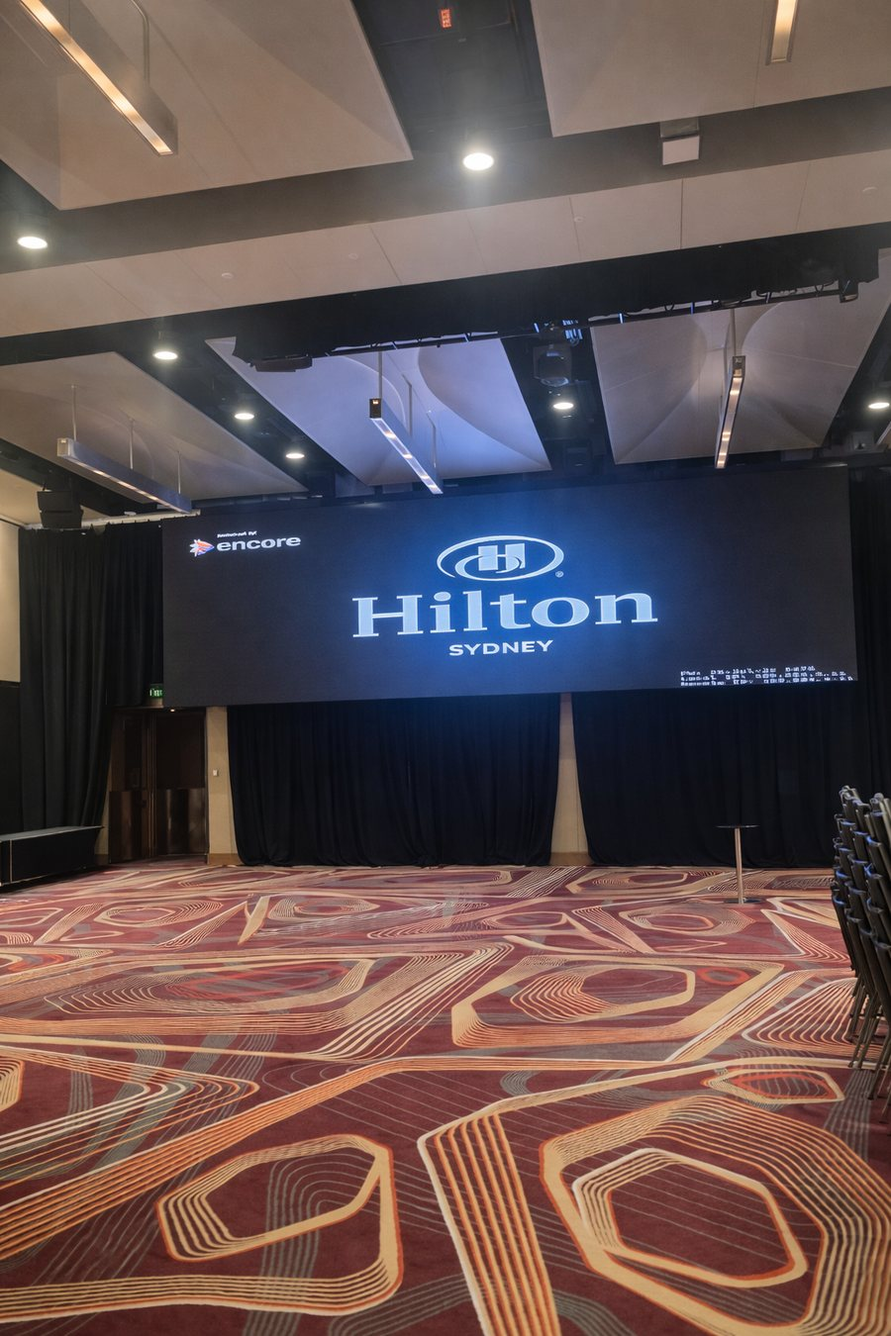
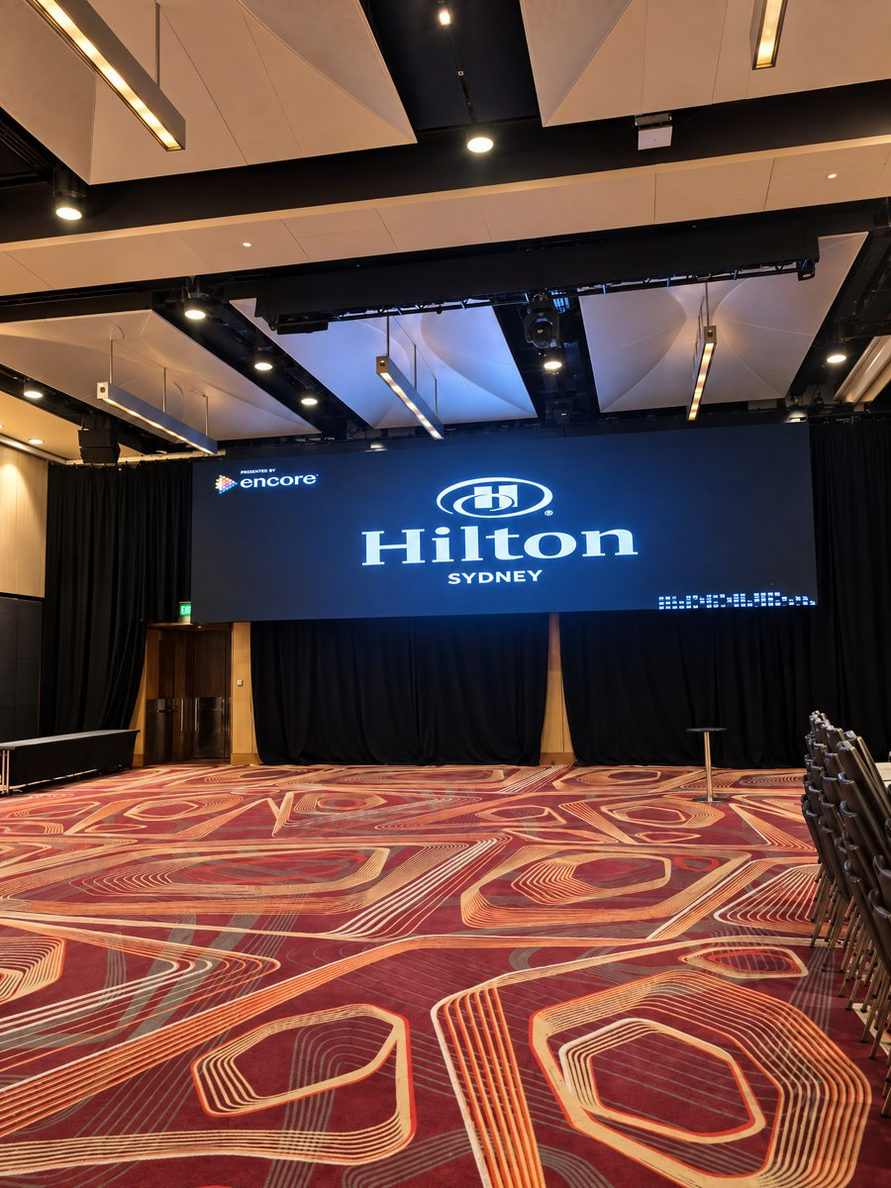
Hilton Sydney: swap Grand Ballroom photo

diff --git a/conference-venue-finding.html b/conference-venue-finding.html
@@ -115,7 +115,7 @@
 <section class="s-white pad" aria-label="A few of the venues we work with.">
   <div class="wrap"><div class="section-head"><span class="eyebrow">The spaces</span><h2 class="h2">A few of the venues we work with.</h2>
     <p class="lead" style="max-width:62ch">The ones marked Inspected by CVBS we have walked through ourselves, and each of those links to what we found in the room. We source from twenty-person board meetings to 800-delegate congresses, in every Australian capital, in wine country, on the islands and overseas, and we work right across the market rather than for any one hotel group. <a class="link-arrow" href="venue-visits/">See the venues we have walked through <svg viewBox="0 0 24 24" width="20" height="20" fill="none" stroke="currentColor" stroke-width="1.7" stroke-linecap="round" stroke-linejoin="round" aria-hidden="true"><path d="M5 12h14M13 6l6 6-6 6"/></svg></a></p></div></div>
-  <div class="venue-marquee reveal"><div class="venue-track"><figure class="vshow"><img src="assets/img/venues/icc-sydney.jpg" alt="ICC Sydney" loading="lazy" onerror="this.closest(&#39;.vshow&#39;).remove()" width="823" height="600"><figcaption>ICC Sydney</figcaption></figure><a class="vshow vshow--seen" href="venue-visits/royal-randwick/"><img src="assets/img/venue-visits/royal-randwick/0-w900.jpg" alt="Royal Randwick Racecourse" loading="lazy" decoding="async" width="900" height="1200"><figcaption>Royal Randwick Racecourse</figcaption></a><figure class="vshow"><img src="assets/img/venues/the-star-event-centre.jpg" alt="Sydney Event Centre" loading="lazy" onerror="this.closest(&#39;.vshow&#39;).remove()" width="1200" height="630"><figcaption>Sydney Event Centre</figcaption></figure><a class="vshow vshow--seen" href="venue-visits/crown-towers-sydney/"><img src="assets/img/venue-visits/crown-towers-sydney/5-w900.jpg" alt="Crown Towers Sydney" loading="lazy" decoding="async" width="900" height="1200"><figcaption>Crown Towers Sydney</figcaption></a><figure class="vshow"><img src="assets/img/venues/crown-sydney.jpg" alt="Crown Sydney" loading="lazy" onerror="this.closest(&#39;.vshow&#39;).remove()" width="1200" height="800"><figcaption>Crown Sydney</figcaption></figure><a class="vshow vshow--seen" href="venue-visits/sofitel-sydney-wentworth/"><img src="assets/img/venue-visits/sofitel-sydney/0-w900.jpg" alt="Sofitel Sydney Wentworth" loading="lazy" decoding="async" width="900" height="1117"><figcaption>Sofitel Sydney Wentworth</figcaption></a><figure class="vshow"><img src="assets/img/venues/doltone-house.jpg" alt="Doltone House" loading="lazy" onerror="this.closest(&#39;.vshow&#39;).remove()" width="1800" height="1200"><figcaption>Doltone House</figcaption></figure><a class="vshow vshow--seen" href="venue-visits/hilton-sydney/"><img src="assets/img/venue-visits/hilton-sydney/3-w900.jpg" alt="Hilton Sydney" loading="lazy" decoding="async" width="900" height="1350"><figcaption>Hilton Sydney</figcaption></a><figure class="vshow"><img src="assets/img/venues/w-sydney.jpg" alt="W Sydney" loading="lazy" onerror="this.closest(&#39;.vshow&#39;).remove()" width="1920" height="771"><figcaption>W Sydney</figcaption></figure><a class="vshow vshow--seen" href="venue-visits/the-westin-brisbane/"><img src="assets/img/venue-visits/the-westin-brisbane/2-w900.jpg" alt="The Westin Brisbane" loading="lazy" decoding="async" width="900" height="1200"><figcaption>The Westin Brisbane</figcaption></a><figure class="vshow"><img src="assets/img/venues/sofitel-sydney-darling-harbour.jpg" alt="Sofitel Sydney Darling Harbour" loading="lazy" onerror="this.closest(&#39;.vshow&#39;).remove()" width="900" height="500"><figcaption>Sofitel Sydney Darling Harbour</figcaption></figure><a class="vshow vshow--seen" href="venue-visits/intercontinental-brisbane/"><img src="assets/img/venue-visits/intercontinental-brisbane/0-w900.jpg" alt="InterContinental Brisbane" loading="lazy" decoding="async" width="900" height="600"><figcaption>InterContinental Brisbane</figcaption></a><figure class="vshow"><img src="assets/img/venues/shangri-la-sydney.jpg" alt="Shangri-La Sydney" loading="lazy" onerror="this.closest(&#39;.vshow&#39;).remove()" width="259" height="194"><figcaption>Shangri-La Sydney</figcaption></figure><a class="vshow vshow--seen" href="venue-visits/the-star-gold-coast/"><img src="assets/img/venue-visits/the-star-gold-coast/0-w900.jpg" alt="The Star Gold Coast" loading="lazy" decoding="async" width="900" height="1200"><figcaption>The Star Gold Coast</figcaption></a><a class="vshow vshow--seen" href="venue-visits/qt-perth/"><img src="assets/img/venue-visits/qt-perth/1-w900.jpg" alt="QT Perth" loading="lazy" decoding="async" width="900" height="1350"><figcaption>QT Perth</figcaption></a><figure class="vshow" aria-hidden="true"><img src="assets/img/venues/icc-sydney.jpg" alt="ICC Sydney" loading="lazy" onerror="this.closest(&#39;.vshow&#39;).remove()" width="823" height="600"><figcaption>ICC Sydney</figcaption></figure><a class="vshow vshow--seen" href="venue-visits/royal-randwick/" aria-hidden="true" tabindex="-1"><img src="assets/img/venue-visits/royal-randwick/0-w900.jpg" alt="Royal Randwick Racecourse" loading="lazy" decoding="async" width="900" height="1200"><figcaption>Royal Randwick Racecourse</figcaption></a><figure class="vshow" aria-hidden="true"><img src="assets/img/venues/the-star-event-centre.jpg" alt="Sydney Event Centre" loading="lazy" onerror="this.closest(&#39;.vshow&#39;).remove()" width="1200" height="630"><figcaption>Sydney Event Centre</figcaption></figure><a class="vshow vshow--seen" href="venue-visits/crown-towers-sydney/" aria-hidden="true" tabindex="-1"><img src="assets/img/venue-visits/crown-towers-sydney/5-w900.jpg" alt="Crown Towers Sydney" loading="lazy" decoding="async" width="900" height="1200"><figcaption>Crown Towers Sydney</figcaption></a><figure class="vshow" aria-hidden="true"><img src="assets/img/venues/crown-sydney.jpg" alt="Crown Sydney" loading="lazy" onerror="this.closest(&#39;.vshow&#39;).remove()" width="1200" height="800"><figcaption>Crown Sydney</figcaption></figure><a class="vshow vshow--seen" href="venue-visits/sofitel-sydney-wentworth/" aria-hidden="true" tabindex="-1"><img src="assets/img/venue-visits/sofitel-sydney/0-w900.jpg" alt="Sofitel Sydney Wentworth" loading="lazy" decoding="async" width="900" height="1117"><figcaption>Sofitel Sydney Wentworth</figcaption></a><figure class="vshow" aria-hidden="true"><img src="assets/img/venues/doltone-house.jpg" alt="Doltone House" loading="lazy" onerror="this.closest(&#39;.vshow&#39;).remove()" width="1800" height="1200"><figcaption>Doltone House</figcaption></figure><a class="vshow vshow--seen" href="venue-visits/hilton-sydney/" aria-hidden="true" tabindex="-1"><img src="assets/img/venue-visits/hilton-sydney/3-w900.jpg" alt="Hilton Sydney" loading="lazy" decoding="async" width="900" height="1350"><figcaption>Hilton Sydney</figcaption></a><figure class="vshow" aria-hidden="true"><img src="assets/img/venues/w-sydney.jpg" alt="W Sydney" loading="lazy" onerror="this.closest(&#39;.vshow&#39;).remove()" width="1920" height="771"><figcaption>W Sydney</figcaption></figure><a class="vshow vshow--seen" href="venue-visits/the-westin-brisbane/" aria-hidden="true" tabindex="-1"><img src="assets/img/venue-visits/the-westin-brisbane/2-w900.jpg" alt="The Westin Brisbane" loading="lazy" decoding="async" width="900" height="1200"><figcaption>The Westin Brisbane</figcaption></a><figure class="vshow" aria-hidden="true"><img src="assets/img/venues/sofitel-sydney-darling-harbour.jpg" alt="Sofitel Sydney Darling Harbour" loading="lazy" onerror="this.closest(&#39;.vshow&#39;).remove()" width="900" height="500"><figcaption>Sofitel Sydney Darling Harbour</figcaption></figure><a class="vshow vshow--seen" href="venue-visits/intercontinental-brisbane/" aria-hidden="true" tabindex="-1"><img src="assets/img/venue-visits/intercontinental-brisbane/0-w900.jpg" alt="InterContinental Brisbane" loading="lazy" decoding="async" width="900" height="600"><figcaption>InterContinental Brisbane</figcaption></a><figure class="vshow" aria-hidden="true"><img src="assets/img/venues/shangri-la-sydney.jpg" alt="Shangri-La Sydney" loading="lazy" onerror="this.closest(&#39;.vshow&#39;).remove()" width="259" height="194"><figcaption>Shangri-La Sydney</figcaption></figure><a class="vshow vshow--seen" href="venue-visits/the-star-gold-coast/" aria-hidden="true" tabindex="-1"><img src="assets/img/venue-visits/the-star-gold-coast/0-w900.jpg" alt="The Star Gold Coast" loading="lazy" decoding="async" width="900" height="1200"><figcaption>The Star Gold Coast</figcaption></a><a class="vshow vshow--seen" href="venue-visits/qt-perth/" aria-hidden="true" tabindex="-1"><img src="assets/img/venue-visits/qt-perth/1-w900.jpg" alt="QT Perth" loading="lazy" decoding="async" width="900" height="1350"><figcaption>QT Perth</figcaption></a></div></div>
+  <div class="venue-marquee reveal"><div class="venue-track"><figure class="vshow"><img src="assets/img/venues/icc-sydney.jpg" alt="ICC Sydney" loading="lazy" onerror="this.closest(&#39;.vshow&#39;).remove()" width="823" height="600"><figcaption>ICC Sydney</figcaption></figure><a class="vshow vshow--seen" href="venue-visits/royal-randwick/"><img src="assets/img/venue-visits/royal-randwick/0-w900.jpg" alt="Royal Randwick Racecourse" loading="lazy" decoding="async" width="900" height="1200"><figcaption>Royal Randwick Racecourse</figcaption></a><figure class="vshow"><img src="assets/img/venues/the-star-event-centre.jpg" alt="Sydney Event Centre" loading="lazy" onerror="this.closest(&#39;.vshow&#39;).remove()" width="1200" height="630"><figcaption>Sydney Event Centre</figcaption></figure><a class="vshow vshow--seen" href="venue-visits/crown-towers-sydney/"><img src="assets/img/venue-visits/crown-towers-sydney/5-w900.jpg" alt="Crown Towers Sydney" loading="lazy" decoding="async" width="900" height="1200"><figcaption>Crown Towers Sydney</figcaption></a><figure class="vshow"><img src="assets/img/venues/crown-sydney.jpg" alt="Crown Sydney" loading="lazy" onerror="this.closest(&#39;.vshow&#39;).remove()" width="1200" height="800"><figcaption>Crown Sydney</figcaption></figure><a class="vshow vshow--seen" href="venue-visits/sofitel-sydney-wentworth/"><img src="assets/img/venue-visits/sofitel-sydney/0-w900.jpg" alt="Sofitel Sydney Wentworth" loading="lazy" decoding="async" width="900" height="1200"><figcaption>Sofitel Sydney Wentworth</figcaption></a><figure class="vshow"><img src="assets/img/venues/doltone-house.jpg" alt="Doltone House" loading="lazy" onerror="this.closest(&#39;.vshow&#39;).remove()" width="1800" height="1200"><figcaption>Doltone House</figcaption></figure><a class="vshow vshow--seen" href="venue-visits/hilton-sydney/"><img src="assets/img/venue-visits/hilton-sydney/3-w900.jpg" alt="Hilton Sydney" loading="lazy" decoding="async" width="900" height="1200"><figcaption>Hilton Sydney</figcaption></a><figure class="vshow"><img src="assets/img/venues/w-sydney.jpg" alt="W Sydney" loading="lazy" onerror="this.closest(&#39;.vshow&#39;).remove()" width="1920" height="771"><figcaption>W Sydney</figcaption></figure><a class="vshow vshow--seen" href="venue-visits/the-westin-brisbane/"><img src="assets/img/venue-visits/the-westin-brisbane/2-w900.jpg" alt="The Westin Brisbane" loading="lazy" decoding="async" width="900" height="1200"><figcaption>The Westin Brisbane</figcaption></a><figure class="vshow"><img src="assets/img/venues/sofitel-sydney-darling-harbour.jpg" alt="Sofitel Sydney Darling Harbour" loading="lazy" onerror="this.closest(&#39;.vshow&#39;).remove()" width="900" height="500"><figcaption>Sofitel Sydney Darling Harbour</figcaption></figure><a class="vshow vshow--seen" href="venue-visits/intercontinental-brisbane/"><img src="assets/img/venue-visits/intercontinental-brisbane/0-w900.jpg" alt="InterContinental Brisbane" loading="lazy" decoding="async" width="900" height="600"><figcaption>InterContinental Brisbane</figcaption></a><figure class="vshow"><img src="assets/img/venues/shangri-la-sydney.jpg" alt="Shangri-La Sydney" loading="lazy" onerror="this.closest(&#39;.vshow&#39;).remove()" width="259" height="194"><figcaption>Shangri-La Sydney</figcaption></figure><a class="vshow vshow--seen" href="venue-visits/the-star-gold-coast/"><img src="assets/img/venue-visits/the-star-gold-coast/0-w900.jpg" alt="The Star Gold Coast" loading="lazy" decoding="async" width="900" height="1200"><figcaption>The Star Gold Coast</figcaption></a><a class="vshow vshow--seen" href="venue-visits/qt-perth/"><img src="assets/img/venue-visits/qt-perth/1-w900.jpg" alt="QT Perth" loading="lazy" decoding="async" width="900" height="1350"><figcaption>QT Perth</figcaption></a><figure class="vshow" aria-hidden="true"><img src="assets/img/venues/icc-sydney.jpg" alt="ICC Sydney" loading="lazy" onerror="this.closest(&#39;.vshow&#39;).remove()" width="823" height="600"><figcaption>ICC Sydney</figcaption></figure><a class="vshow vshow--seen" href="venue-visits/royal-randwick/" aria-hidden="true" tabindex="-1"><img src="assets/img/venue-visits/royal-randwick/0-w900.jpg" alt="Royal Randwick Racecourse" loading="lazy" decoding="async" width="900" height="1200"><figcaption>Royal Randwick Racecourse</figcaption></a><figure class="vshow" aria-hidden="true"><img src="assets/img/venues/the-star-event-centre.jpg" alt="Sydney Event Centre" loading="lazy" onerror="this.closest(&#39;.vshow&#39;).remove()" width="1200" height="630"><figcaption>Sydney Event Centre</figcaption></figure><a class="vshow vshow--seen" href="venue-visits/crown-towers-sydney/" aria-hidden="true" tabindex="-1"><img src="assets/img/venue-visits/crown-towers-sydney/5-w900.jpg" alt="Crown Towers Sydney" loading="lazy" decoding="async" width="900" height="1200"><figcaption>Crown Towers Sydney</figcaption></a><figure class="vshow" aria-hidden="true"><img src="assets/img/venues/crown-sydney.jpg" alt="Crown Sydney" loading="lazy" onerror="this.closest(&#39;.vshow&#39;).remove()" width="1200" height="800"><figcaption>Crown Sydney</figcaption></figure><a class="vshow vshow--seen" href="venue-visits/sofitel-sydney-wentworth/" aria-hidden="true" tabindex="-1"><img src="assets/img/venue-visits/sofitel-sydney/0-w900.jpg" alt="Sofitel Sydney Wentworth" loading="lazy" decoding="async" width="900" height="1200"><figcaption>Sofitel Sydney Wentworth</figcaption></a><figure class="vshow" aria-hidden="true"><img src="assets/img/venues/doltone-house.jpg" alt="Doltone House" loading="lazy" onerror="this.closest(&#39;.vshow&#39;).remove()" width="1800" height="1200"><figcaption>Doltone House</figcaption></figure><a class="vshow vshow--seen" href="venue-visits/hilton-sydney/" aria-hidden="true" tabindex="-1"><img src="assets/img/venue-visits/hilton-sydney/3-w900.jpg" alt="Hilton Sydney" loading="lazy" decoding="async" width="900" height="1200"><figcaption>Hilton Sydney</figcaption></a><figure class="vshow" aria-hidden="true"><img src="assets/img/venues/w-sydney.jpg" alt="W Sydney" loading="lazy" onerror="this.closest(&#39;.vshow&#39;).remove()" width="1920" height="771"><figcaption>W Sydney</figcaption></figure><a class="vshow vshow--seen" href="venue-visits/the-westin-brisbane/" aria-hidden="true" tabindex="-1"><img src="assets/img/venue-visits/the-westin-brisbane/2-w900.jpg" alt="The Westin Brisbane" loading="lazy" decoding="async" width="900" height="1200"><figcaption>The Westin Brisbane</figcaption></a><figure class="vshow" aria-hidden="true"><img src="assets/img/venues/sofitel-sydney-darling-harbour.jpg" alt="Sofitel Sydney Darling Harbour" loading="lazy" onerror="this.closest(&#39;.vshow&#39;).remove()" width="900" height="500"><figcaption>Sofitel Sydney Darling Harbour</figcaption></figure><a class="vshow vshow--seen" href="venue-visits/intercontinental-brisbane/" aria-hidden="true" tabindex="-1"><img src="assets/img/venue-visits/intercontinental-brisbane/0-w900.jpg" alt="InterContinental Brisbane" loading="lazy" decoding="async" width="900" height="600"><figcaption>InterContinental Brisbane</figcaption></a><figure class="vshow" aria-hidden="true"><img src="assets/img/venues/shangri-la-sydney.jpg" alt="Shangri-La Sydney" loading="lazy" onerror="this.closest(&#39;.vshow&#39;).remove()" width="259" height="194"><figcaption>Shangri-La Sydney</figcaption></figure><a class="vshow vshow--seen" href="venue-visits/the-star-gold-coast/" aria-hidden="true" tabindex="-1"><img src="assets/img/venue-visits/the-star-gold-coast/0-w900.jpg" alt="The Star Gold Coast" loading="lazy" decoding="async" width="900" height="1200"><figcaption>The Star Gold Coast</figcaption></a><a class="vshow vshow--seen" href="venue-visits/qt-perth/" aria-hidden="true" tabindex="-1"><img src="assets/img/venue-visits/qt-perth/1-w900.jpg" alt="QT Perth" loading="lazy" decoding="async" width="900" height="1350"><figcaption>QT Perth</figcaption></a></div></div>
 </section>
 
 <!-- 4. WHY CVBS. Primary persuasion section. -->

diff --git a/venue-visits/index.html b/venue-visits/index.html
@@ -427,8 +427,8 @@ html{scroll-padding-top:150px}
     <ul class="vh-grid" style="margin-bottom:2.8rem">
 <li class="vh-card"><a class="vh-card__hit" href="crown-towers-sydney/"><span class="vh-card__img"><img src="../assets/img/venue-visits/crown-towers-sydney/5-w900.jpg" alt="Crown Towers Sydney, Pearl Ballroom" width="900" height="1200" loading="lazy" decoding="async"></span><span class="vh-card__body"><b>Crown Towers Sydney</b><span class="vh-card__meta">Hotel · Barangaroo</span><span class="vh-card__stats"><span><b>390</b>theatre</span><span><b>340</b>banquet</span><span><b>349</b>rooms</span></span><span class="vh-card__line">One ballroom at 390 theatre and two rooms that hold forty. A luxury building for senior audiences, not a conference venue.</span><span class="vh-card__seen">Inspected by CVBS</span></span></a><span class="vh-card__act"><a class="btn btn--teal btn--sm" href="../submit-a-brief.html?dest=Sydney&amp;venue=Crown%20Towers%20Sydney">Ask About This Venue</a></span></li>
 <li class="vh-card"><a class="vh-card__hit" href="pullman-quay-grand-sydney/"><span class="vh-card__img"><img src="../assets/img/venue-visits/pullman-sydney/1-w900.jpg" alt="Pullman Quay Grand Sydney Harbour" width="900" height="1200" loading="lazy" decoding="async"></span><span class="vh-card__body"><b>Pullman Quay Grand Sydney Harbour</b><span class="vh-card__meta">Hotel · East Circular Quay</span><span class="vh-card__stats"><span><b>70</b>theatre</span><span><b>50</b>banquet</span><span><b>All</b>suites</span></span><span class="vh-card__line">An all suite hotel on East Circular Quay. Three bookable spaces, the largest seating 70. A meeting and dining hotel, not a conference hotel.</span><span class="vh-card__seen">Inspected by CVBS</span></span></a><span class="vh-card__act"><a class="btn btn--teal btn--sm" href="../submit-a-brief.html?dest=Sydney&amp;venue=Pullman%20Quay%20Grand%20Sydney%20Harbour">Ask About This Venue</a></span></li>
-<li class="vh-card"><a class="vh-card__hit" href="hilton-sydney/"><span class="vh-card__img"><img src="../assets/img/venue-visits/hilton-sydney/3-w900.jpg" alt="Hilton Sydney, the Grand Ballroom with its fixed LED wall" width="900" height="1350" loading="lazy" decoding="async"></span><span class="vh-card__body"><b>Hilton Sydney</b><span class="vh-card__meta">Hotel · Sydney CBD</span><span class="vh-card__stats"><span><b>1,100</b>theatre</span><span><b>500</b>banquet</span><span><b>806</b>sqm</span></span><span class="vh-card__line">An 806 sqm ballroom with six metre ceilings and 28 event spaces over four levels. One of the few Sydney hotels seating more than 1,000 in one room.</span><span class="vh-card__seen">Inspected by CVBS</span></span></a><span class="vh-card__act"><a class="btn btn--teal btn--sm" href="../submit-a-brief.html?dest=Sydney&amp;venue=Hilton%20Sydney">Ask About This Venue</a></span></li>
-<li class="vh-card"><a class="vh-card__hit" href="sofitel-sydney-wentworth/"><span class="vh-card__img"><img src="../assets/img/venue-visits/sofitel-sydney/7-w900.jpg" alt="Sofitel Sydney Wentworth, a private dining room set for a long table" width="900" height="1117" loading="lazy" decoding="async"></span><span class="vh-card__body"><b>Sofitel Sydney Wentworth</b><span class="vh-card__meta">Hotel · Sydney CBD</span><span class="vh-card__stats"><span><b>800</b>theatre</span><span><b>500</b>banquet</span><span><b>436</b>rooms</span></span><span class="vh-card__line">A 629 sqm pillarless ballroom with a 5.3 metre ceiling that divides into three usable rooms, and 436 rooms above it after a 2024 refurbishment.</span><span class="vh-card__seen">Inspected by CVBS</span></span></a><span class="vh-card__act"><a class="btn btn--teal btn--sm" href="../submit-a-brief.html?dest=Sydney&amp;venue=Sofitel%20Sydney%20Wentworth">Ask About This Venue</a></span></li>
+<li class="vh-card"><a class="vh-card__hit" href="hilton-sydney/"><span class="vh-card__img"><img src="../assets/img/venue-visits/hilton-sydney/3-w900.jpg" alt="Hilton Sydney, the Grand Ballroom with its fixed LED wall" width="900" height="1200" loading="lazy" decoding="async"></span><span class="vh-card__body"><b>Hilton Sydney</b><span class="vh-card__meta">Hotel · Sydney CBD</span><span class="vh-card__stats"><span><b>1,100</b>theatre</span><span><b>500</b>banquet</span><span><b>806</b>sqm</span></span><span class="vh-card__line">An 806 sqm ballroom with six metre ceilings and 28 event spaces over four levels. One of the few Sydney hotels seating more than 1,000 in one room.</span><span class="vh-card__seen">Inspected by CVBS</span></span></a><span class="vh-card__act"><a class="btn btn--teal btn--sm" href="../submit-a-brief.html?dest=Sydney&amp;venue=Hilton%20Sydney">Ask About This Venue</a></span></li>
+<li class="vh-card"><a class="vh-card__hit" href="sofitel-sydney-wentworth/"><span class="vh-card__img"><img src="../assets/img/venue-visits/sofitel-sydney/7-w900.jpg" alt="Sofitel Sydney Wentworth, a private dining room set for a long table" width="900" height="1200" loading="lazy" decoding="async"></span><span class="vh-card__body"><b>Sofitel Sydney Wentworth</b><span class="vh-card__meta">Hotel · Sydney CBD</span><span class="vh-card__stats"><span><b>800</b>theatre</span><span><b>500</b>banquet</span><span><b>436</b>rooms</span></span><span class="vh-card__line">A 629 sqm pillarless ballroom with a 5.3 metre ceiling that divides into three usable rooms, and 436 rooms above it after a 2024 refurbishment.</span><span class="vh-card__seen">Inspected by CVBS</span></span></a><span class="vh-card__act"><a class="btn btn--teal btn--sm" href="../submit-a-brief.html?dest=Sydney&amp;venue=Sofitel%20Sydney%20Wentworth">Ask About This Venue</a></span></li>
 <li class="vh-card"><a class="vh-card__hit" href="capella-sydney/"><span class="vh-card__img"><img src="../assets/img/venue-visits/capella-sydney/0-w900.jpg" alt="Capella Sydney, the heritage ballroom set for a long table dinner" width="900" height="1350" loading="lazy" decoding="async"></span><span class="vh-card__body"><b>Capella Sydney</b><span class="vh-card__meta">Hotel · Circular Quay</span><span class="vh-card__stats"><span><b>300</b>theatre</span><span><b>240</b>banquet</span><span><b>192</b>rooms</span></span><span class="vh-card__line">A heritage ballroom of 537 sqm with 4.6 metre ceilings and daylight, long and narrow rather than square, a few steps from a 192 room hotel.</span><span class="vh-card__seen">Inspected by CVBS</span></span></a><span class="vh-card__act"><a class="btn btn--teal btn--sm" href="../submit-a-brief.html?dest=Sydney&amp;venue=Capella%20Sydney">Ask About This Venue</a></span></li>
 <li class="vh-card"><a class="vh-card__hit" href="royal-randwick/"><span class="vh-card__img"><img src="../assets/img/venue-visits/royal-randwick/1-w900.jpg" alt="Royal Randwick Racecourse, the track and grandstands from above" width="900" height="1200" loading="lazy" decoding="async"></span><span class="vh-card__body"><b>Royal Randwick Racecourse</b><span class="vh-card__meta">Event venue · Eastern Suburbs</span><span class="vh-card__stats"><span><b>1,692</b>theatre</span><span><b>1,300</b>banquet</span><span><b>3,000</b>cocktail</span></span><span class="vh-card__line">A 2,222 sqm pavilion with 6.2 metre ceilings six kilometres from the CBD, with a 1,163 theatre ballroom above it. No accommodation on site.</span><span class="vh-card__seen">Inspected by CVBS</span></span></a><span class="vh-card__act"><a class="btn btn--teal btn--sm" href="../submit-a-brief.html?dest=Sydney&amp;venue=Royal%20Randwick%20Racecourse">Ask About This Venue</a></span></li>
 <li class="vh-card"><a class="vh-card__hit" href="the-eve-hotel-sydney/"><span class="vh-card__img"><img src="../assets/img/venue-visits/eve-hotel/0-w900.jpg" alt="The EVE Hotel Sydney, the lobby lounge" width="900" height="1200" loading="lazy" decoding="async"></span><span class="vh-card__body"><b>The EVE Hotel Sydney</b><span class="vh-card__meta">Hotel · Redfern</span><span class="vh-card__stats"><span><b>14</b>boardroom</span><span><b>102</b>rooms</span><span><b>1</b>space</span></span><span class="vh-card__line">A 102 room hotel at Redfern whose only event space is a rooftop boardroom for fourteen. Not a conference venue, and worth knowing before the inspection.</span><span class="vh-card__seen">Inspected by CVBS</span></span></a><span class="vh-card__act"><a class="btn btn--teal btn--sm" href="../submit-a-brief.html?dest=Sydney&amp;venue=The%20EVE%20Hotel%20Sydney">Ask About This Venue</a></span></li>

diff --git a/venue-finder-sydney.html b/venue-finder-sydney.html
@@ -142,7 +142,7 @@
         <span class="vwalk__seen"><svg viewBox="0 0 24 24" fill="none" stroke="currentColor" stroke-width="1.9" stroke-linecap="round" stroke-linejoin="round" aria-hidden="true"><path d="M2 12s3.6-6 10-6 10 6 10 6-3.6 6-10 6-10-6-10-6z"/><circle cx="12" cy="12" r="2.6"/></svg>Inspected by CVBS</span>
       </span></a></li>
     <li class="vwalk__card"><a href="venue-visits/hilton-sydney/">
-      <span class="vwalk__img"><img src="assets/img/venue-visits/hilton-sydney/3-w900.jpg" alt="Hilton Sydney, the Grand Ballroom with its fixed LED wall" loading="lazy" decoding="async" width="900" height="1350"></span>
+      <span class="vwalk__img"><img src="assets/img/venue-visits/hilton-sydney/3-w900.jpg" alt="Hilton Sydney, the Grand Ballroom with its fixed LED wall" loading="lazy" decoding="async" width="900" height="1200"></span>
       <span class="vwalk__body">
         <b>Hilton Sydney</b>
         <span class="vwalk__meta">Hotel &middot; 1,100 theatre &middot; 500 banquet</span>
@@ -150,7 +150,7 @@
         <span class="vwalk__seen"><svg viewBox="0 0 24 24" fill="none" stroke="currentColor" stroke-width="1.9" stroke-linecap="round" stroke-linejoin="round" aria-hidden="true"><path d="M2 12s3.6-6 10-6 10 6 10 6-3.6 6-10 6-10-6-10-6z"/><circle cx="12" cy="12" r="2.6"/></svg>Inspected by CVBS</span>
       </span></a></li>
     <li class="vwalk__card"><a href="venue-visits/sofitel-sydney-wentworth/">
-      <span class="vwalk__img"><img src="assets/img/venue-visits/sofitel-sydney/7-w900.jpg" alt="Sofitel Sydney Wentworth, a private dining room set for a long table" loading="lazy" decoding="async" width="900" height="1117"></span>
+      <span class="vwalk__img"><img src="assets/img/venue-visits/sofitel-sydney/7-w900.jpg" alt="Sofitel Sydney Wentworth, a private dining room set for a long table" loading="lazy" decoding="async" width="900" height="1200"></span>
       <span class="vwalk__body">
         <b>Sofitel Sydney Wentworth</b>
         <span class="vwalk__meta">Hotel &middot; 800 theatre &middot; 436 rooms</span>

diff --git a/venue-visits/hilton-sydney/index.html b/venue-visits/hilton-sydney/index.html
@@ -361,7 +361,7 @@
 <li><button type="button" data-lb="1" data-src="../../assets/img/venue-visits/hilton-sydney/8-w900.jpg" aria-label="Enlarge photograph"><img src="../../assets/img/venue-visits/hilton-sydney/8-w900.jpg" alt="Hilton Sydney" width="900" height="675" loading="lazy" decoding="async"></button></li>
 <li><button type="button" data-lb="1" data-src="../../assets/img/venue-visits/hilton-sydney/9-w900.jpg" aria-label="Enlarge photograph"><img src="../../assets/img/venue-visits/hilton-sydney/9-w900.jpg" alt="Hilton Sydney" width="900" height="1200" loading="lazy" decoding="async"></button></li>
 <li><button type="button" data-lb="1" data-src="../../assets/img/venue-visits/hilton-sydney/10-w900.jpg" aria-label="Enlarge photograph"><img src="../../assets/img/venue-visits/hilton-sydney/10-w900.jpg" alt="Hilton Sydney" width="900" height="1200" loading="lazy" decoding="async"></button></li>
-<li><button type="button" data-lb="1" data-src="../../assets/img/venue-visits/hilton-sydney/3-w900.jpg" aria-label="Enlarge photograph"><img src="../../assets/img/venue-visits/hilton-sydney/3-w900.jpg" alt="Hilton Sydney" width="900" height="1350" loading="lazy" decoding="async"></button></li>
+<li><button type="button" data-lb="1" data-src="../../assets/img/venue-visits/hilton-sydney/3-w900.jpg" aria-label="Enlarge photograph"><img src="../../assets/img/venue-visits/hilton-sydney/3-w900.jpg" alt="Hilton Sydney" width="900" height="1200" loading="lazy" decoding="async"></button></li>
 <li><button type="button" data-lb="1" data-src="../../assets/img/venue-visits/hilton-sydney/0-w900.jpg" aria-label="Enlarge photograph"><img src="../../assets/img/venue-visits/hilton-sydney/0-w900.jpg" alt="Hilton Sydney" width="900" height="1350" loading="lazy" decoding="async"></button></li>
       </ul>
     </section>
